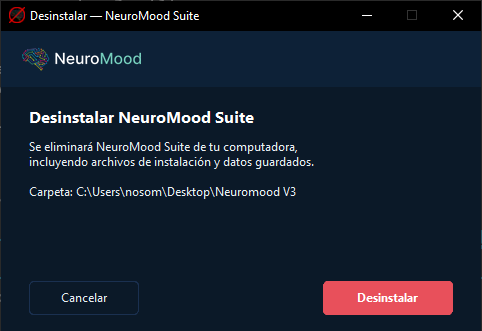
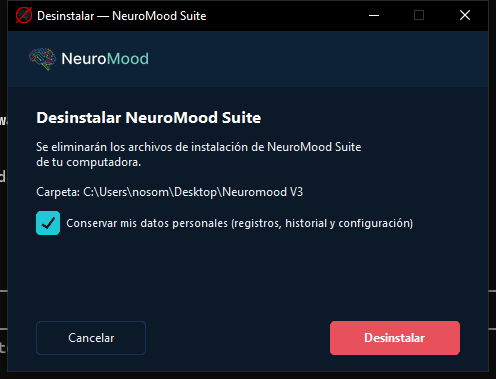
fix: seguimiento en lugar de racha, bandeja recordatorios, restauracion ventana, timer respiracion
installer.py:
- Checklist desc: racha diaria -> seguimiento diario

apps/checklist:
- Capturas actualizadas mostrando Seguimiento en lugar de Racha

apps/recordatorios:
- Agrega bandeja del sistema completa con pystray (al cerrar va a bandeja)
- Al disparar recordatorio restaura ventana desde bandeja o iconica
- Guarda y restaura estado de ventana (maximizada o normal)

apps/temporizador:
- Guarda estado de ventana en _estado_ventana
- Restaura al mismo estado (maximizada/normal) al volver de la bandeja

apps/respiracion:
- Elimina logica _detener_al_terminar_ciclo completamente
- Timer corta exactamente al vencer la duracion (mid-fase, sin contar ciclo incompleto)
- Solo cuenta ciclos completados en su totalidad

_nm_pdf_gen.py:
- Checklist descripcion e instrucciones: racha semanal -> seguimiento semanal
- Recordatorios: desc y instrucciones incluyen bandeja y restauracion de estado
- Temporizador: instrucciones incluyen restauracion de estado de ventana

_doc_screenshots:
- checklist.png: nueva captura con Seguimiento en UI
- uninstaller.png: nueva captura con checkbox de datos personales

Changed region(s): [[0.0, 0.0, 1.0, 1.0], [0.0622, 0.2719, 0.8402, 0.6344], [0.0622, 0.8459, 0.3112, 0.9366]]

diff --git a/apps/recordatorios/main.py b/apps/recordatorios/main.py
@@ -23,7 +23,7 @@ from shared.utils import hora_actual
 
 try:
     import pystray
-    from PIL import Image
+    from PIL import Image as PILImage
     TRAY_DISPONIBLE = True
 except ImportError:
     TRAY_DISPONIBLE = False
@@ -55,7 +55,7 @@ def _generar_tono(frecuencia: float, duracion: float, volumen: float = 0.25) -> 
 
 
 def _reproducir_check():
-    s = _generar_tono(1046.5, 0.12)  # Do6 — breve y limpio
+    s = _generar_tono(1046.5, 0.12)
     if s:
         s.play()
 
@@ -90,6 +90,7 @@ class RecordatoriosApp(ctk.CTk):
         self.silencio_inicio = leer_config("silencio_inicio", "23:00")
         self.silencio_fin = leer_config("silencio_fin", "07:00")
         self.tray_icon = None
+        self._estado_ventana = "zoomed"
         self._hora_temp = ""
         self._mensaje_temp = ""
         self._dias_temp = {i: True for i in range(1, 8)}
@@ -122,6 +123,8 @@ class RecordatoriosApp(ctk.CTk):
         if event.widget is not self:
             return
         estado = self.state()
+        if estado in ("zoomed", "normal"):
+            self._estado_ventana = estado
         if self._prev_state == "zoomed" and estado == "normal":
             self.after(20, self._recentrar)
         self._prev_state = estado
@@ -554,6 +557,12 @@ class RecordatoriosApp(ctk.CTk):
         hilo.start()
 
     def _mostrar_popup(self, mensaje):
+        # Restaurar ventana si está en bandeja o minimizada
+        if self.tray_icon is not None:
+            self._restaurar_desde_bandeja()
+        elif self.state() == "iconic":
+            self._restaurar_ventana()
+
         colores = COLORS[self.modo]
         popup = NMToplevel(self, modo=self.modo)
         popup.title("Recordatorio")
@@ -592,6 +601,72 @@ class RecordatoriosApp(ctk.CTk):
             command=popup.destroy
         ).pack()
 
+    def _al_cerrar(self):
+        self._enviar_a_bandeja()
+
+    def _enviar_a_bandeja(self):
+        if not TRAY_DISPONIBLE:
+            self.hilo_activo = False
+            self.destroy()
+            return
+        self.withdraw()
+
+        def _crear_imagen():
+            try:
+                ruta = obtener_ruta_recurso("LOGO.png")
+                img = PILImage.open(ruta).convert("RGBA").resize((64, 64), PILImage.LANCZOS)
+                return img
+            except Exception:
+                img = PILImage.new("RGBA", (64, 64), (30, 200, 212, 255))
+                return img
+
+        menu = pystray.Menu(
+            pystray.MenuItem(
+                "Abrir Recordatorios",
+                lambda icon, item: self.after(0, self._restaurar_desde_bandeja),
+                default=True
+            ),
+            pystray.MenuItem(
+                "Salir",
+                lambda icon, item: self.after(0, self._salir_desde_bandeja)
+            ),
+        )
+        self.tray_icon = pystray.Icon(
+            "NM_Recordatorios",
+            _crear_imagen(),
+            "Recordatorios de Bienestar",
+            menu=menu
+        )
+        hilo = threading.Thread(target=self.tray_icon.run, daemon=True)
+        hilo.start()
+
+    def _restaurar_desde_bandeja(self):
+        if self.tray_icon is not None:
+            try:
+                self.tray_icon.stop()
+            except Exception:
+                pass
+            self.tray_icon = None
+        self._restaurar_ventana()
+
+    def _salir_desde_bandeja(self):
+        self.hilo_activo = False
+        if self.tray_icon is not None:
+            try:
+                self.tray_icon.stop()
+            except Exception:
+                pass
+            self.tray_icon = None
+        self.destroy()
+
+    def _restaurar_ventana(self):
+        self.deiconify()
+        estado = getattr(self, "_estado_ventana", "zoomed")
+        if estado == "zoomed":
+            self.state("zoomed")
+        self.lift()
+        self.focus_force()
+
     def _toggle_modo(self):
         estado = self.state()
         self._hora_temp = self.entry_hora.get().strip() if hasattr(self, 'entry_hora') else ""
@@ -614,10 +689,6 @@ class RecordatoriosApp(ctk.CTk):
         aplicar_captionbar_flush(self, self.modo)
         if estado == "zoomed":
             self.state("zoomed")
-
-    def _al_cerrar(self):
-        self.hilo_activo = False
-        self.destroy()
 
 
 if __name__ == "__main__":

diff --git a/apps/respiracion/main.py b/apps/respiracion/main.py
@@ -313,13 +313,11 @@ class RespiracionApp(ctk.CTk):
         self.ciclos_completados = 0
         self.tiempo_total_transcurrido = 0
         self._tiempo_inicio_real = _time_mod.time()
-        self._detener_al_terminar_ciclo = False
         self.btn_iniciar.configure(text="Detener", fg_color=COLORS[self.modo]["error"])
         self._ejecutar_ciclo()
 
     def _detener(self):
         self.corriendo = False
-        self._detener_al_terminar_ciclo = False
         if self.timer_id:
             self.after_cancel(self.timer_id)
             self.timer_id = None
@@ -345,25 +343,16 @@ class RespiracionApp(ctk.CTk):
             return
 
         if indice >= len(fases):
-            if self._detener_al_terminar_ciclo:
-                self._detener_al_terminar_ciclo = False
-                self.ciclos_completados += 1
-                self.lbl_ciclos.configure(text=f"Ciclos: {self.ciclos_completados}")
-                self._detener()
-                return
+            # Ciclo completado — registrarlo y verificar si queda tiempo
             self.ciclos_completados += 1
             self.lbl_ciclos.configure(text=f"Ciclos: {self.ciclos_completados}")
-            self._ejecutar_ciclo()
-            return
-
-        if self.duracion_sesion > 0 and not self._detener_al_terminar_ciclo:
-            elapsed = _time_mod.time() - self._tiempo_inicio_real
-            if elapsed >= self.duracion_sesion:
-                if indice < 2:
+            if self.duracion_sesion > 0:
+                elapsed = _time_mod.time() - self._tiempo_inicio_real
+                if elapsed >= self.duracion_sesion:
                     self._detener()
                     return
-                else:
-                    self._detener_al_terminar_ciclo = True
+            self._ejecutar_ciclo()
+            return
 
         texto, duracion = fases[indice]
         self.fase_actual = texto.replace("...", "")
@@ -382,14 +371,11 @@ class RespiracionApp(ctk.CTk):
             if not self.corriendo:
                 return
 
-            if self.duracion_sesion > 0 and not self._detener_al_terminar_ciclo:
+            if self.duracion_sesion > 0:
                 elapsed = _time_mod.time() - self._tiempo_inicio_real
                 if elapsed >= self.duracion_sesion:
-                    if es_exhalar:
-                        self._detener_al_terminar_ciclo = True
-                    else:
-                        self._detener()
-                        return
+                    self._detener()
+                    return
 
             progreso = frame_actual[0] / max(total_frames, 1)
             self.segundos_fase_restantes = duracion_seg - (frame_actual[0] // 20)

diff --git a/_nm_pdf_gen.py b/_nm_pdf_gen.py
@@ -466,7 +466,7 @@ APPS_DATA = [
             "Elegí la duración con los botones rápidos (5'–30') o ingresá un valor personalizado en el campo <b>min</b>.",
             "Presioná <b>Iniciar</b> para arrancar el temporizador.",
             "Usá <b>Pausar / Reanudar</b> para interrumpir la sesión. Al finalizar, el registro se guarda automáticamente.",
-            "Si necesitás seguir usando la computadora, cerrá la ventana para enviar el temporizador a la bandeja del sistema. Al vencer el tiempo, la ventana se restaura automáticamente con una alerta visual y sonora.",
+            "Cerrá la ventana para enviar el temporizador a la bandeja del sistema mientras seguís usando la computadora. Al vencer el tiempo, la ventana se restaura automáticamente en el mismo estado (maximizada o normal) con una alerta visual y sonora.",
         ],
     },
     {
@@ -492,7 +492,7 @@ APPS_DATA = [
         "screenshot": "checklist.png",
         "description": (
             "Organizador de tareas cotidianas dividido en secciones de Mañana, Tarde y "
-            "Noche con seguimiento de progreso diario y racha semanal. Permite agregar "
+            "Noche con seguimiento de progreso diario y semanal. Permite agregar "
             "tareas personalizadas a cada sección y consultar el cumplimiento en un "
             "calendario semanal con vista por día."
         ),
@@ -500,7 +500,7 @@ APPS_DATA = [
             "Seleccioná la sección del día: Mañana, Tarde o Noche.",
             "Ingresá el nombre de una tarea y presioná el botón <b>+</b> para agregarla.",
             "Marcá cada tarea como completada tildando la casilla correspondiente.",
-            "Consultá el progreso del día y la racha semanal en la parte inferior.",
+            "Consultá el progreso del día y el seguimiento semanal en la parte inferior.",
         ],
     },
     {
@@ -509,15 +509,16 @@ APPS_DATA = [
         "screenshot": "recordatorios.png",
         "description": (
             "Sistema de recordatorios personalizados con horarios y días específicos de "
-            "la semana. Funciona en segundo plano desde la bandeja del sistema y emite "
-            "alertas visuales y sonoras en los horarios configurados. Soporta múltiples "
-            "recordatorios independientes con estado activo/inactivo."
+            "la semana. Al cerrar la ventana continúa activo en la bandeja del sistema y "
+            "emite alertas visuales y sonoras en los horarios configurados. Al dispararse "
+            "un recordatorio, la ventana se restaura automáticamente en el mismo estado "
+            "en que estaba. Soporta múltiples recordatorios con estado activo/inactivo."
         ),
         "instructions": [
             "Presioná <b>+ Nuevo recordatorio</b> para crear una entrada.",
             "Ingresá el mensaje, seleccioná la hora y los días de la semana activos.",
             "Activá o desactivá el recordatorio con el interruptor correspondiente.",
-            "La app continúa monitoreando los horarios aunque esté minimizada en la bandeja del sistema.",
+            "Cerrá la ventana para enviarla a la bandeja del sistema; seguirá monitoreando en segundo plano. Al dispararse un recordatorio, la ventana se restaura automáticamente en el mismo estado (maximizada o normal).",
         ],
     },
     {

diff --git a/apps/temporizador/main.py b/apps/temporizador/main.py
@@ -73,6 +73,7 @@ class TemporizadorApp(ctk.CTk):
         except Exception:
             pass
 
+        self._estado_ventana = "zoomed"
         self.protocol("WM_DELETE_WINDOW", self._al_cerrar)
         self._centrar_ventana()
         self._construir_ui()
@@ -86,6 +87,8 @@ class TemporizadorApp(ctk.CTk):
         if event.widget is not self:
             return
         estado = self.state()
+        if estado in ("zoomed", "normal"):
+            self._estado_ventana = estado
         if self._prev_state == "zoomed" and estado == "normal":
             self.after(20, self._recentrar)
         self._prev_state = estado
@@ -622,6 +625,9 @@ class TemporizadorApp(ctk.CTk):
 
     def _restaurar_ventana(self):
         self.deiconify()
+        estado = getattr(self, "_estado_ventana", "zoomed")
+        if estado == "zoomed":
+            self.state("zoomed")
         self.lift()
         self.focus_force()
 

diff --git a/installer.py b/installer.py
@@ -70,7 +70,7 @@ APPS = [
         "id": "checklist",
         "exe": "ChecklistRutina.exe",
         "nombre": "Checklist de Rutina",
-        "desc": "Organizá tus tareas de mañana, tarde y noche con seguimiento de racha diaria",
+        "desc": "Organizá tus tareas de mañana, tarde y noche con seguimiento diario",
         "grupo": None,
         "default": True,
     },